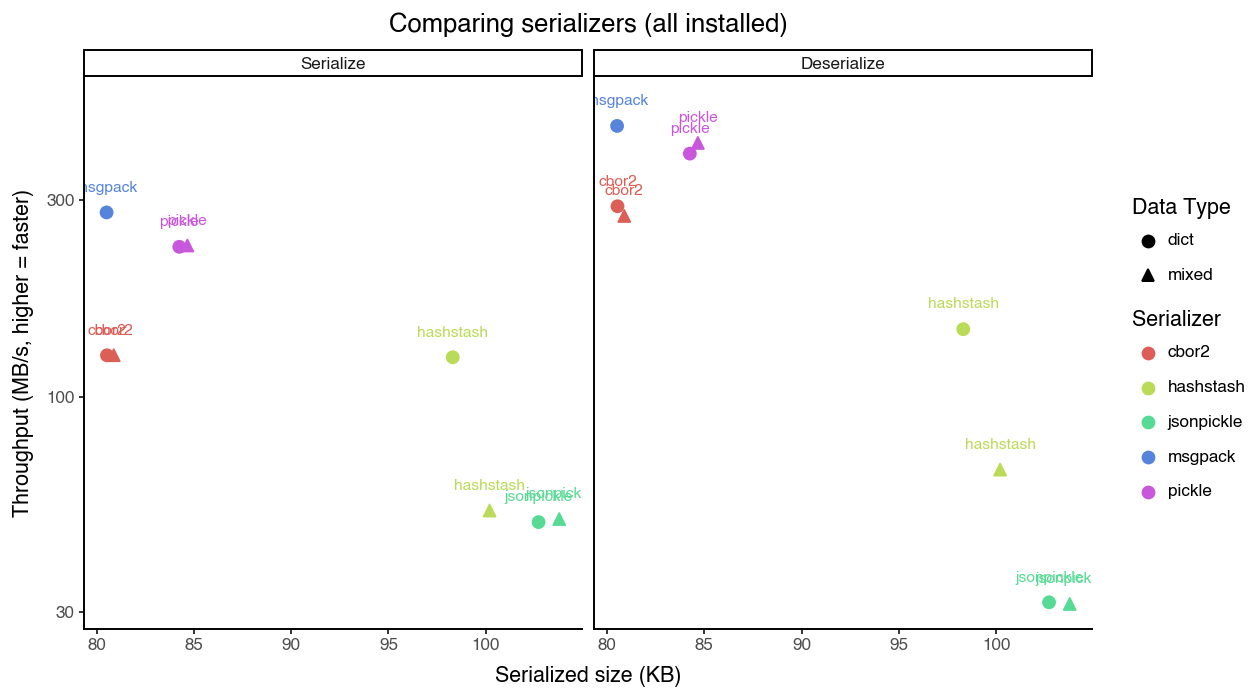
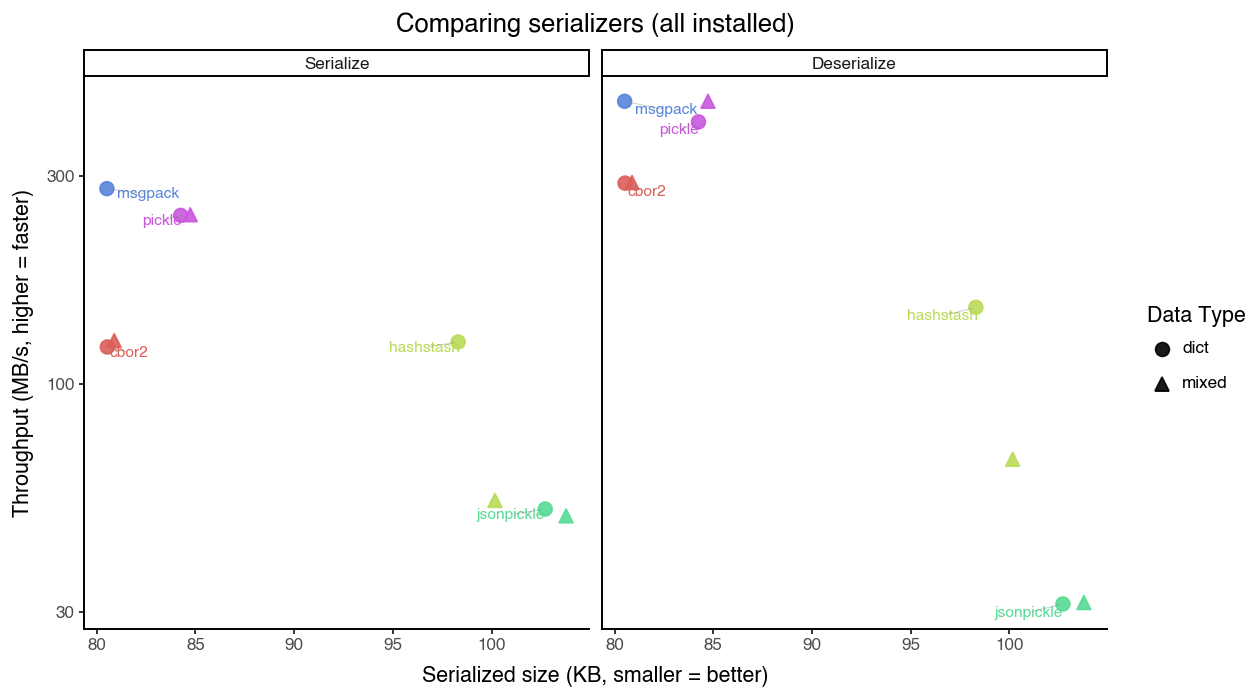
docs: improve README figures — isolated engine I/O, repelled labels
- serializers & encodings: biplot + facets (Serialize|Deserialize,
  Encode|Decode) with adjustText-repelled labels (readable, no overlap)
- engines: switched to an ISOLATED-I/O biplot. The full set/get time is
  ~85-95% serialize/deserialize (constant across engines), which masks the
  real ~25x I/O spread; subtracting the serialize+encode / decode+
  deserialize cost (the same components the profiler times separately)
  reveals it. memory/lmdb near-free; jsonl reads near-zero (indexed) but
  writes ~0.77ms; the set==get diagonal separates write-once-read-many
  stores from balanced ones. redis/mongo included via docker.
- adjustText added to the dev/all extras

Claude-Session: https://claude.ai/code/session_01LfRqcpyxSXhxuANCqmkVVY

diff --git a/scripts/make_readme_figures.py b/scripts/make_readme_figures.py
@@ -18,6 +18,13 @@ from pathlib import Path
 
 FIG_DIR = Path(__file__).resolve().parent.parent / "figures"
 
+# label repel (needs adjustText): spread colliding labels apart with thin leader
+# lines so every serializer/engine/encoding stays readable
+REPEL = {
+    "expand_points": (1.6, 1.6),
+    "arrowprops": {"arrowstyle": "-", "color": "gray", "alpha": 0.4, "lw": 0.5},
+}
+
 
 def _payload(target_bytes):
     rows, approx, i = [], 0, 0
@@ -55,14 +62,19 @@ def fig_serializers(size, iterations):
     fig["Serialized Size (KB)"] = fig["Serialized Size (B)"] / 1024
     fig["Rate (MB/s)"] = fig["Raw Size (B)"] / fig["Time (s)"] / 1024 / 1024
     p9.options.figure_size = (9, 5)
+    # label one point per serializer (the 'dict' payload) with repel; shape marks
+    # dict vs mixed; color reinforces the serializer
+    lab = fig[fig["Data Type"] == "dict"]
     g = (
-        p9.ggplot(fig, p9.aes(x="Serialized Size (KB)", y="Rate (MB/s)", label="Serializer", color="Serializer"))
+        p9.ggplot(fig, p9.aes(x="Serialized Size (KB)", y="Rate (MB/s)", color="Serializer"))
         + p9.facet_grid(". ~ Operation")
-        + p9.geom_point(p9.aes(shape="Data Type"), size=3)
-        + p9.geom_text(nudge_y=0.06, size=8)
+        + p9.geom_point(p9.aes(shape="Data Type"), size=3.5, alpha=0.9)
+        + p9.geom_text(lab, p9.aes(label="Serializer"), size=8, adjust_text=REPEL, show_legend=False)
         + p9.theme_classic()
         + p9.scale_y_log10()
-        + p9.labs(x="Serialized size (KB)", y="Throughput (MB/s, higher = faster)",
+        + p9.guides(color=False)
+        + p9.labs(x="Serialized size (KB, smaller = better)",
+                  y="Throughput (MB/s, higher = faster)",
                   title="Comparing serializers (all installed)")
     )
     _save(g, "fig.comparing_serializers_size_speed.png")
@@ -77,36 +89,47 @@ def fig_engines(size, n, serializer):
     from hashstash.config import get_working_engines
 
     payload = _payload(size)
+
+    def _ms(fn, reps):
+        t = time.perf_counter()
+        for i in range(reps):
+            fn(i)
+        return (time.perf_counter() - t) / reps * 1000
+
     rows = []
     for engine in sorted(get_working_engines()):
-        if engine == "fsspec":
-            root = f"memory://fig-{engine}"
-        else:
-            root = tempfile.mkdtemp(prefix=f"hs-fig-{engine}-")
+        root = f"memory://fig-{engine}" if engine == "fsspec" else tempfile.mkdtemp(prefix=f"hs-fig-{engine}-")
         try:
             s = HashStash(engine=engine, serializer=serializer, root_dir=root)
             s.clear()
-            t = time.perf_counter()
-            for i in range(n):
-                s[f"k{i}"] = payload
-            set_ms = (time.perf_counter() - t) / n * 1000
-            t = time.perf_counter()
-            for i in range(n):
-                _ = s[f"k{i}"]
-            get_ms = (time.perf_counter() - t) / n * 1000
-            rows.append({"Engine": engine, "Operation": "Set", "ms": set_ms})
-            rows.append({"Engine": engine, "Operation": "Get", "ms": get_ms})
+            ev = s.encode_value(payload)
+            # ISOLATE engine I/O from ser/deser: subtract the serialize+encode
+            # cost from a full set, and the decode+deserialize cost from a full
+            # get (these are what the profiler times as separate operations). The
+            # full time is ~85-95% ser/deser and hides the real engine differences.
+            enc = _ms(lambda i: (s.encode_value(payload), s.encode_key(f"k{i}")), n)
+            dec = _ms(lambda i: s.decode_value(ev), n)
+            set_full = _ms(lambda i: s.__setitem__(f"k{i}", payload), n)
+            get_full = _ms(lambda i: s[f"k{i}"], n)
+            rows.append({"Engine": engine,
+                         "Set I/O (ms)": max(set_full - enc, 0.0),
+                         "Get I/O (ms)": max(get_full - dec, 0.0)})
         except Exception as e:
             print(f"  skipping engine {engine}: {type(e).__name__}")
     d = pd.DataFrame(rows)
-    p9.options.figure_size = (8, 6)
+    # ISOLATED write vs read I/O (serialize/deserialize subtracted out). Now the
+    # engines actually spread (~25x): memory/lmdb near the origin, the SQL engines
+    # far out. Dashed diagonal is set==get I/O.
+    p9.options.figure_size = (8, 7)
     g = (
-        p9.ggplot(d, p9.aes(x="reorder(Engine, -ms)", y="ms", fill="Operation"))
-        + p9.geom_col(position="dodge")
-        + p9.coord_flip()
+        p9.ggplot(d, p9.aes(x="Set I/O (ms)", y="Get I/O (ms)"))
+        + p9.geom_abline(slope=1, intercept=0, linetype="dashed", color="gray", alpha=0.5)
+        + p9.geom_point(p9.aes(color="Engine"), size=3, show_legend=False)
+        + p9.geom_text(p9.aes(label="Engine", color="Engine"), size=8, adjust_text=REPEL, show_legend=False)
         + p9.theme_classic()
-        + p9.labs(x="", y="ms per op (lower = faster)",
-                  title=f"Comparing engines (serializer={serializer}, {size // 1000} KB values)")
+        + p9.labs(x="Write I/O — ms per set, ser/enc removed (lower = faster)",
+                  y="Read I/O — ms per get, deser/dec removed (lower = faster)",
+                  title=f"Comparing engines: pure I/O ({size // 1000} KB values, serializer={serializer})")
     )
     _save(g, "fig.comparing_engines.png")
 
@@ -124,6 +147,7 @@ def fig_encodings(size):
     serialized = base.serialize(payload)
     raw_stash = HashStash(engine="memory", compress=False, b64=False, root_dir=tempfile.mkdtemp())
     raw_kb = len(raw_stash.encode_value(serialized)) / 1024
+    mb = len(serialized) / 1024 / 1024
     rows = []
     for comp in get_working_compressers():
         try:
@@ -134,20 +158,27 @@ def fig_encodings(size):
                 t = time.perf_counter(); encoded = s.encode_value(serialized); enc += time.perf_counter() - t
                 t = time.perf_counter(); s.decode_value(encoded); dec += time.perf_counter() - t
             size_kb = len(encoded) / 1024
-            rate = len(serialized) / ((enc + dec) / n) / 1024 / 1024
-            rows.append({"Encoding": comp, "Encoded Size (KB)": size_kb, "Rate (MB/s)": rate})
+            rows.append({"Encoding": comp, "Encoded Size (KB)": size_kb,
+                         "Operation": "Encode", "Rate (MB/s)": mb / (enc / n)})
+            rows.append({"Encoding": comp, "Encoded Size (KB)": size_kb,
+                         "Operation": "Decode", "Rate (MB/s)": mb / (dec / n)})
         except Exception as e:
             print(f"  skipping compressor {comp}: {type(e).__name__}")
     d = pd.DataFrame(rows)
-    p9.options.figure_size = (8, 6)
+    d["Operation"] = pd.Categorical(d["Operation"], categories=["Encode", "Decode"])
+    p9.options.figure_size = (9, 5)
+    # biplot faceted by operation, mirroring the serializer figure: encoded size
+    # (compression) vs throughput. The dashed line marks the uncompressed size.
     g = (
-        p9.ggplot(d, p9.aes(x="Encoded Size (KB)", y="Rate (MB/s)", label="Encoding", color="Encoding"))
-        + p9.geom_point(size=3) + p9.geom_text(nudge_y=0.04, size=9)
-        + p9.geom_vline(xintercept=raw_kb, linetype="dashed", color="gray")
-        + p9.annotate("text", x=raw_kb, y=d["Rate (MB/s)"].min(), label=f"raw = {raw_kb:.0f} KB",
-                      color="gray", ha="left")
+        p9.ggplot(d, p9.aes(x="Encoded Size (KB)", y="Rate (MB/s)", color="Encoding"))
+        + p9.facet_grid(". ~ Operation")
+        + p9.geom_vline(xintercept=raw_kb, linetype="dashed", color="gray", alpha=0.6)
+        + p9.geom_point(size=3.5, alpha=0.9)
+        + p9.geom_text(p9.aes(label="Encoding"), size=8, adjust_text=REPEL, show_legend=False)
         + p9.theme_classic() + p9.scale_y_log10()
-        + p9.labs(x="Encoded size (KB, smaller = better)", y="Encode+decode throughput (MB/s)",
+        + p9.guides(color=False)
+        + p9.labs(x=f"Encoded size (KB, smaller = better; dashed = raw {raw_kb:.0f} KB)",
+                  y="Throughput (MB/s, higher = faster)",
                   title="Comparing encodings / compressors")
     )
     _save(g, "fig.comparing_encodings_size_speed.png")
